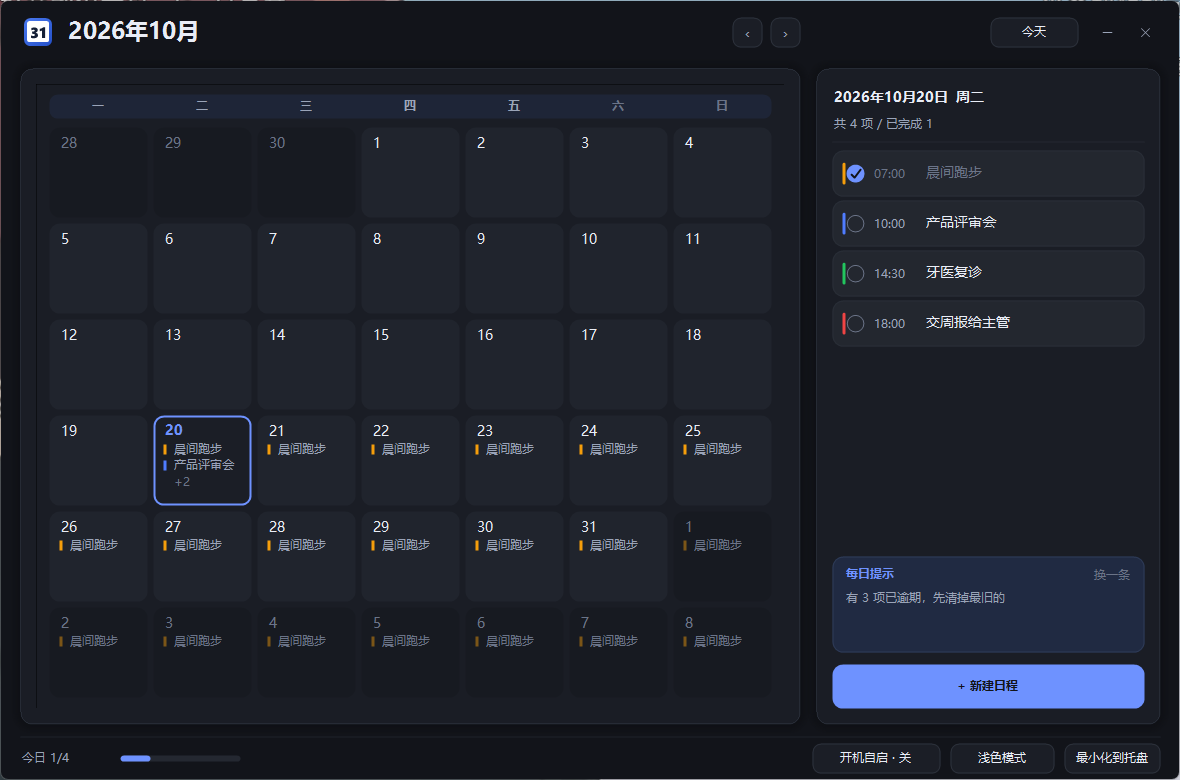
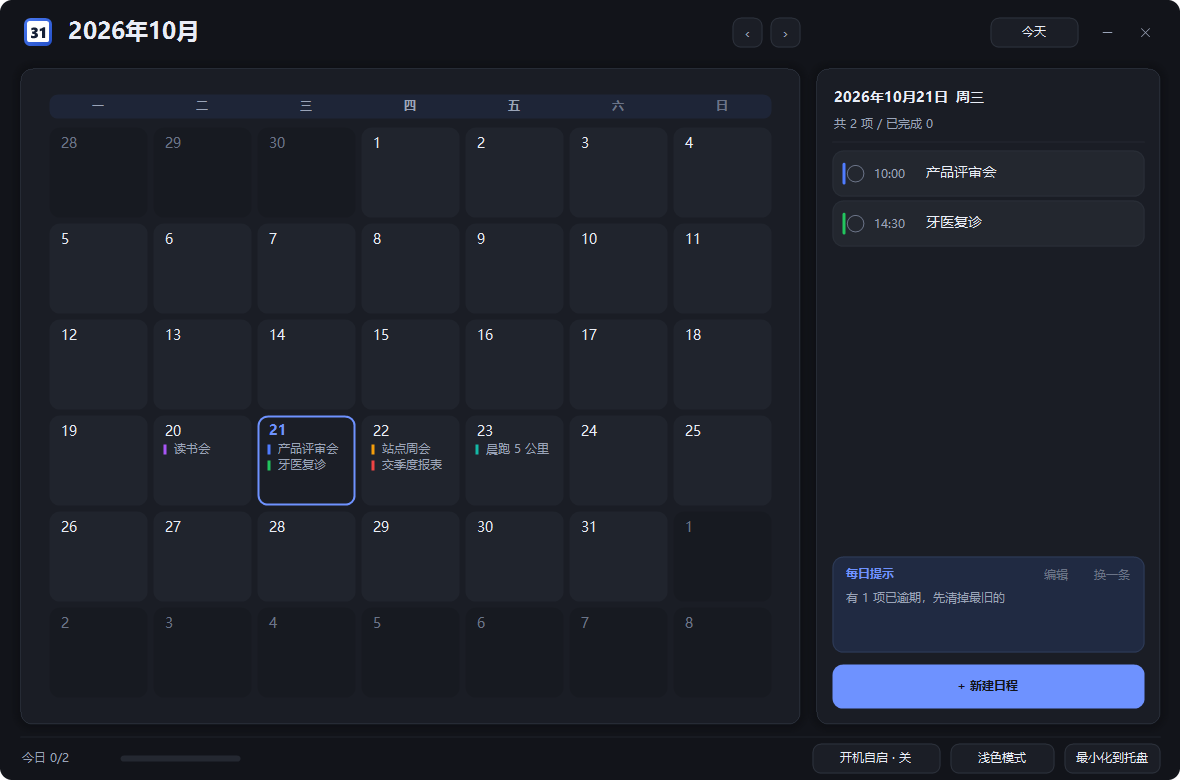
托盘首次收起提示覆盖「最小化」路径，更新界面截图
- TrayController：把首次收起的气泡提示抽成 HintOnce()，让点 × 和点 — 两条路径都提示一次（此前只有 × 提示）
- preview/app-running.png、app-running-dark.png 按当前界面重拍（提示卡新增「编辑」按钮后旧图过期）
- 新增 preview/app-tip-editor.png，README 补「自定义每日提示」截图
- 三套测试全过：LogicTests 319 / TipTests 41 / TrayFixTests 10

diff --git a/src/UI/TrayController.cs b/src/UI/TrayController.cs
@@ -289,12 +289,16 @@ namespace DesktopCalendar.UI
 
             e.Cancel = true;
             if (_main != null) _main.Hide();
+            HintOnce();
+        }
 
-            if (_lastBalloon.Length == 0)
-            {
-                ShowBalloon("桌面日历", "已收进右下角托盘，双击图标即可重新打开。\n若看不到图标：点任务栏的 ^ 展开，把日历图标拖到任务栏上就会常驻。");
-                _lastBalloon = "hinted";
-            }
+        /// <summary>第一次真正收起时提示一次托盘位置；不管用户走的是 × 还是 — 都提示。</summary>
+        private void HintOnce()
+        {
+            if (_lastBalloon.Length != 0) return;
+            if (_disposed || _notify == null) return;
+            ShowBalloon("桌面日历", "已收进右下角托盘，双击图标即可重新打开。\n若看不到图标：点任务栏的 ^ 展开，把日历图标拖到任务栏上就会常驻。");
+            _lastBalloon = "hinted";
         }
 
         /// <summary>主窗口被隐藏（收起到托盘）时，把托盘图标重新确认一遍。</summary>
@@ -303,7 +307,9 @@ namespace DesktopCalendar.UI
             if (_disposed) return;
             Form f = _main;
             if (f == null) return;
-            if (!f.Visible) EnsureVisible();
+            if (f.Visible) return;
+            EnsureVisible();
+            HintOnce();
         }
 
         /// <summary>explorer 重建了任务栏：壳层那边的图标已经没了，重新走一遍 NIM_ADD。</summary>

diff --git a/README.md b/README.md
@@ -76,6 +76,10 @@
 
 ![日程编辑 · 每周指定星期几](preview/app-editor-weekly.png)
 
+**自定义每日提示**：点提示卡右上角「编辑」，可以新增 / 修改 / 删除文案、或一键恢复默认。
+
+![每日提示编辑器](preview/app-tip-editor.png)
+
 **品牌图标**（`assets/app.ico`，16/24/32 为简化档，48 以上带装订孔）
 
 ![品牌图标](assets/logo-256.png)
@@ -218,7 +222,7 @@ Unblock-File -Path "$env:USERPROFILE\Downloads\desktop-calendar.exe"
 
 Win11 默认把新图标收进「隐藏的图标」里。点任务栏右下角的 `^` 展开就能看到；想让它常驻，把它拖到任务栏上，或在「设置 → 个性化 → 任务栏 → 其他系统托盘图标」里打开。
 
-这是 Windows 的托盘收纳策略，程序无法替你改。程序这边已经做到：图标用 exe 内嵌的 32×32 原图、第一次收起时弹气泡指路、explorer 重启后自动挂回去。如果照上面做完还是没有，右键任务栏 → 任务管理器，看 `desktop-calendar.exe` 是否还在跑（不在就是被杀了/没启动）。
+这是 Windows 的托盘收纳策略，程序无法替你改。程序这边已经做到：图标用 exe 内嵌的 32×32 原图、第一次收起时弹一次气泡指路（点 `×` 还是 `—` 都算）、explorer 重启后自动挂回去。如果照上面做完还是没有，右键任务栏 → 任务管理器，看 `desktop-calendar.exe` 是否还在跑（不在就是被杀了/没启动）。
 
 **每月 31 号的日程，2 月怎么提醒？**
 
